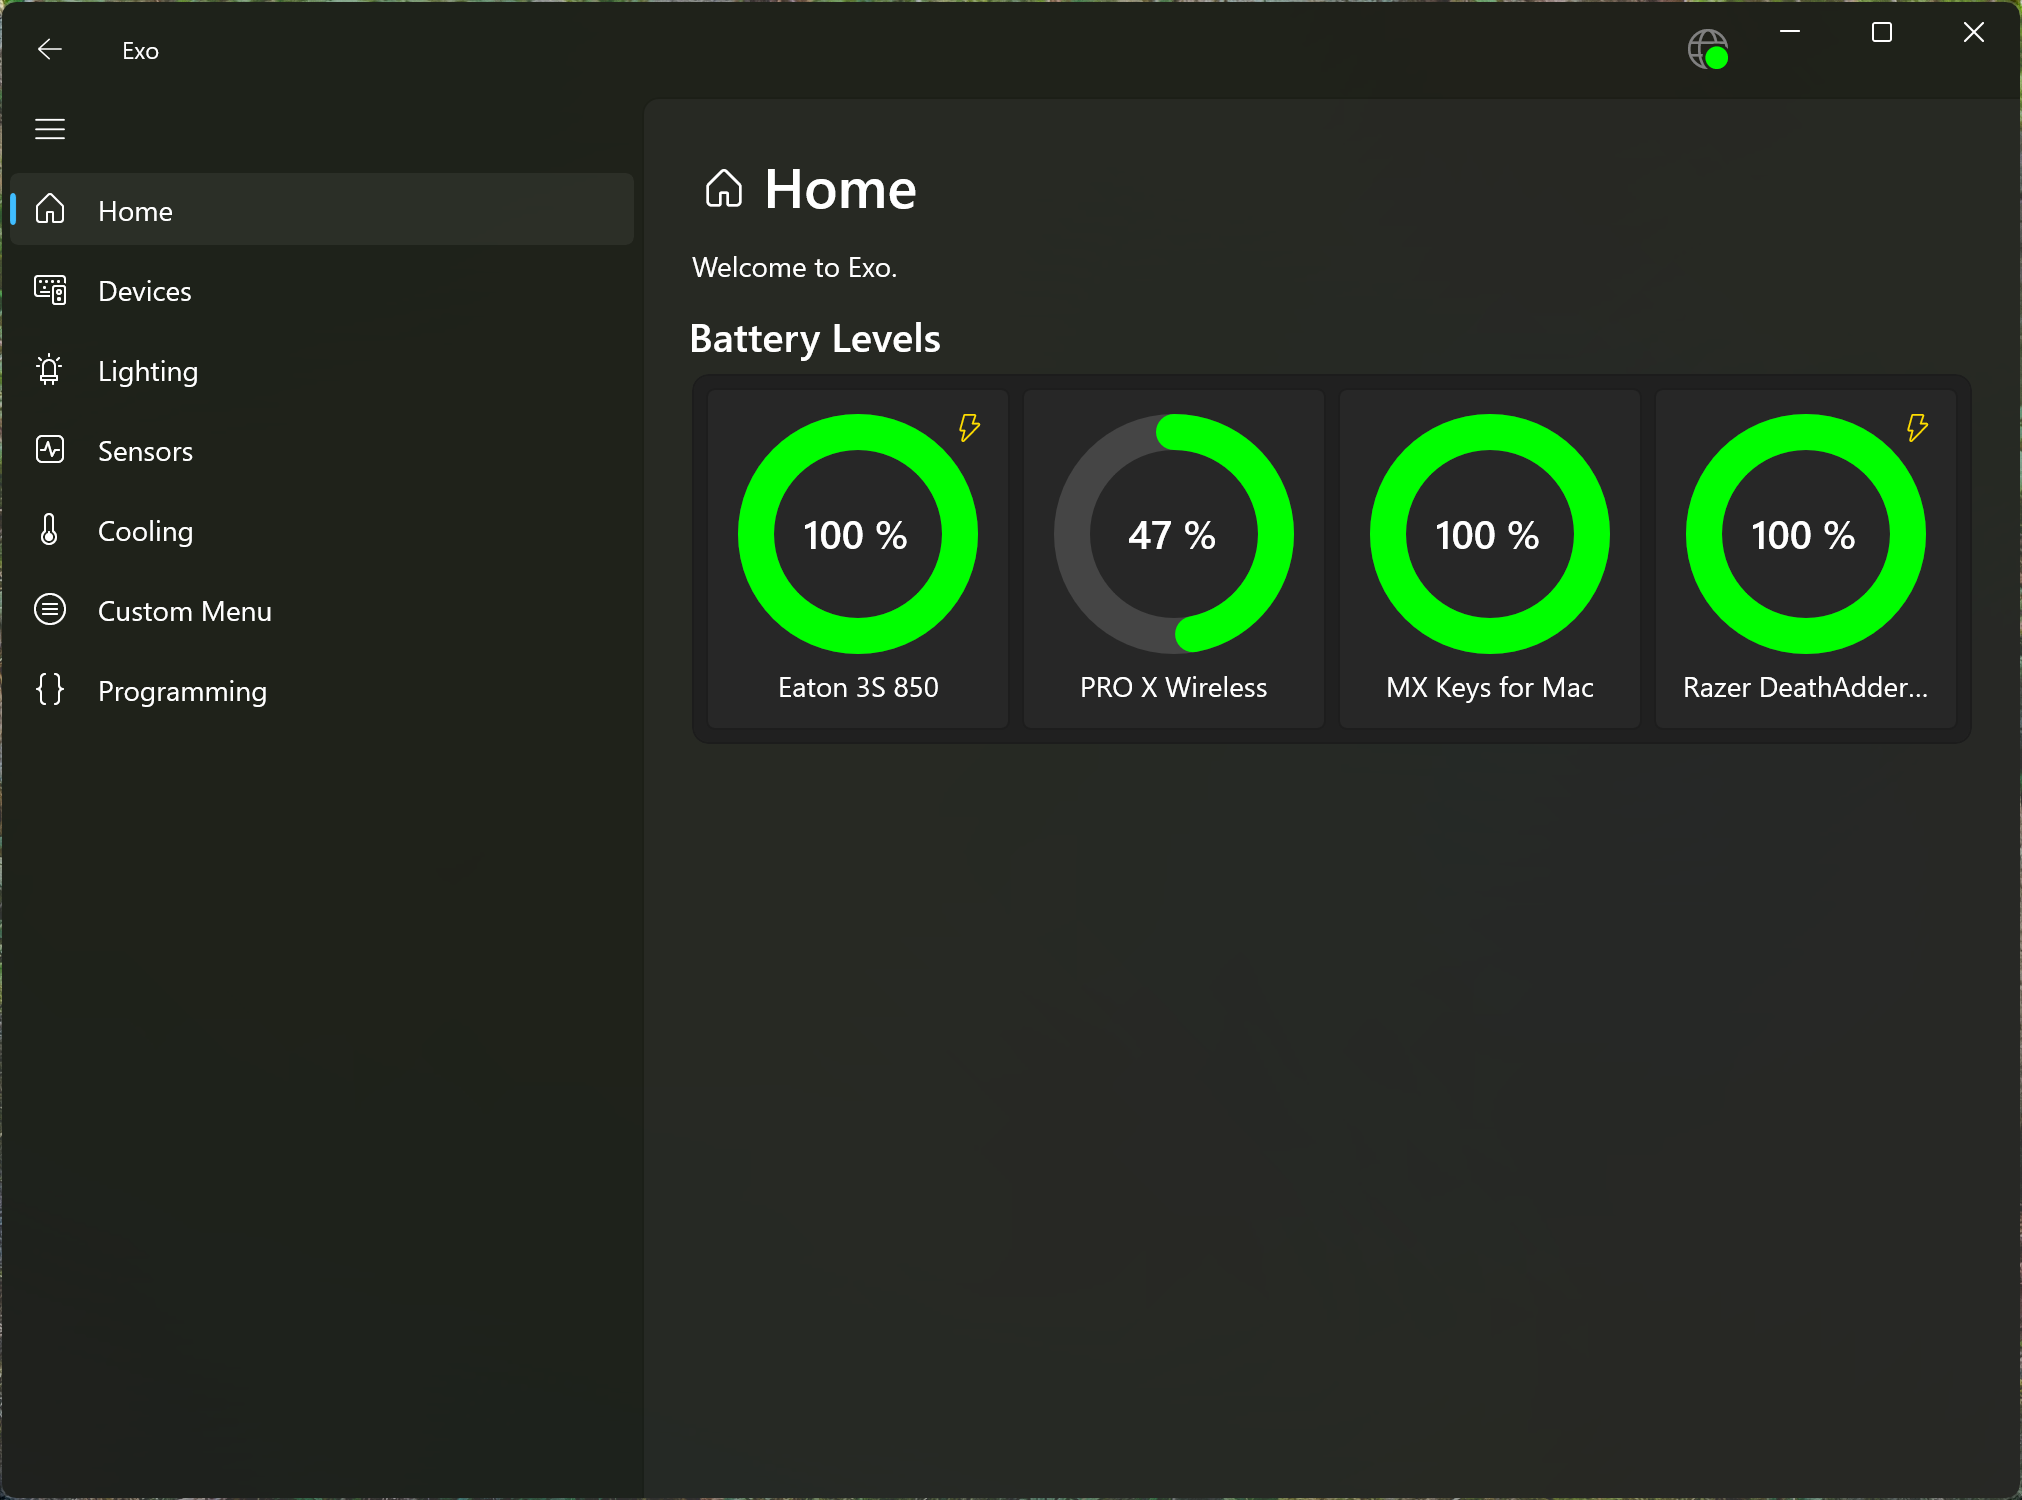
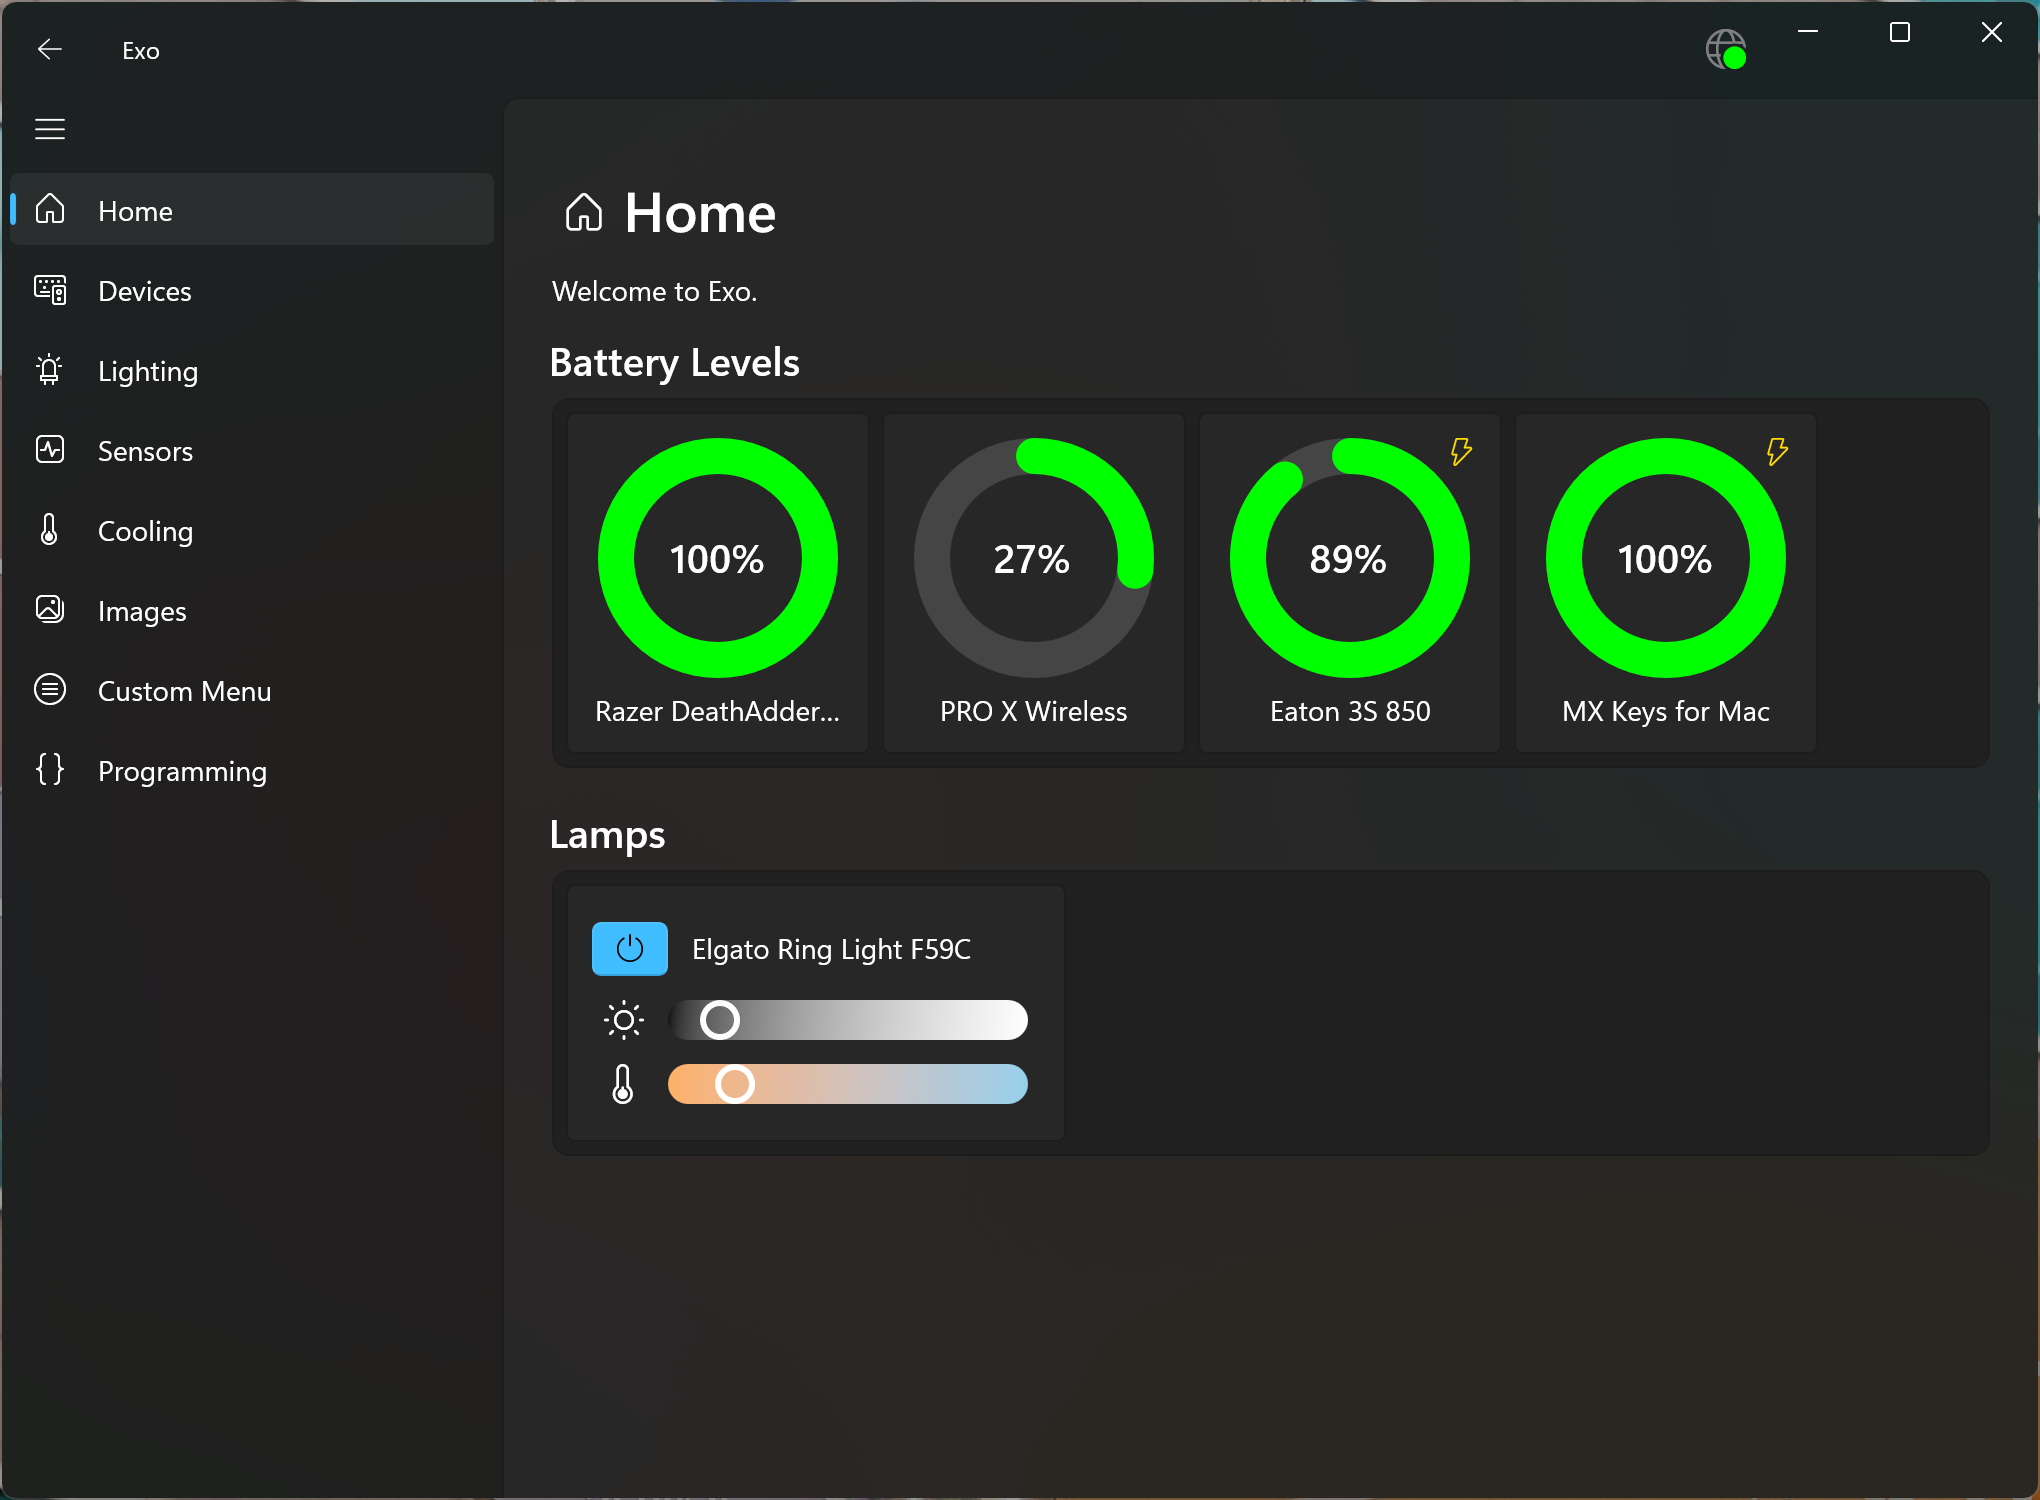
📝 Update documentation.

diff --git a/devices.md b/devices.md
@@ -12,6 +12,7 @@
     <td rowspan="2">Without Vendor Kernel Driver</td>
     <td colspan="3">Power</td>
     <td colspan="3">RGB Lighting</td>
+    <td colspan="3">Lamps</td>
     <td colspan="3">Embedded Display</td>
     <td colspan="3">Mouse</td>
     <td colspan="2">Keyboard</td>
@@ -31,6 +32,10 @@
     <td>Unified</td>
     <td>Zones</td>
     <td>Persistence</td>
+    <!-- RGB Lighting -->
+    <td>On/Off</td>
+    <td>Brightness</td>
+    <td>Color T°</td>
     <!-- Embedded Display -->
     <td>Static images</td>
     <td>Animated images</td>
@@ -73,6 +78,7 @@
     <td>❌</td>
     <td>❌</td>
     <td colspan="3"></td>
+    <td colspan="3"></td>
     <td>✔</td>
     <td>🔍</td>
     <td>🔍</td>
@@ -94,6 +100,7 @@
     <td>✔</td>
     <td>❌</td>
     <td>❌</td>
+    <td colspan="3"></td>
     <td colspan="3"></td>
     <td colspan="3"></td>
     <td>✔</td>
@@ -119,6 +126,7 @@
     <td colspan="3"></td>
     <td colspan="3"></td>
     <td colspan="3"></td>
+    <td colspan="3"></td>
     <td>✔</td>
     <td>✔</td>
     <td colspan="4"></td>
@@ -136,6 +144,7 @@
     <td>✔</td>
     <td>❌</td>
     <td>❌</td>
+    <td colspan="3"></td>
     <td colspan="3"></td>
     <td colspan="3"></td>
     <td colspan="3"></td>
@@ -158,6 +167,7 @@
     <td colspan="3"></td>
     <td colspan="3"></td>
     <td colspan="3"></td>
+    <td colspan="3"></td>
     <td colspan="2"></td>
     <td colspan="4"></td>
     <td></td>
@@ -175,6 +185,7 @@
     <td colspan="3"></td>
     <td colspan="3"></td>
     <td colspan="3"></td>
+    <td colspan="3"></td>
     <td colspan="2"></td>
     <td colspan="4"></td>
     <td></td>
@@ -188,6 +199,7 @@
     <td>USB</td>
     <td>046D:C548</td>
     <td>✔</td>
+    <td colspan="3"></td>
     <td colspan="3"></td>
     <td colspan="3"></td>
     <td colspan="3"></td>
@@ -212,6 +224,7 @@
     <td>✔</td>
     <td>❌</td>
     <td colspan="3"></td>
+    <td colspan="3"></td>
     <td>✔</td>
     <td>🔍</td>
     <td>✔</td>
@@ -235,6 +248,7 @@
     <td>❌</td>
     <td>✔</td>
     <td colspan="3"></td>
+    <td colspan="3"></td>
     <td>✔</td>
     <td>❌</td>
     <td>💾</td>
@@ -257,6 +271,7 @@
     <td>✔</td>
     <td colspan="3"></td>
     <td colspan="3"></td>
+    <td colspan="3"></td>
     <td colspan="2"></td>
     <td colspan="4"></td>
     <td></td>
@@ -276,6 +291,7 @@
     <td rowspan="3">✔</td>
     <td rowspan="3">❌</td>
     <td rowspan="3">✔</td>
+    <td rowspan="3" colspan="3"></td>
     <td rowspan="3" colspan="3"></td>
     <td rowspan="3">✔</td>
     <td rowspan="3">💾</td>
@@ -312,6 +328,7 @@
     <td rowspan="2">✔</td>
     <td rowspan="2" colspan="3"></td>
     <td rowspan="2" colspan="3"></td>
+    <td rowspan="2" colspan="3"></td>
     <td rowspan="2">✔</td>
     <td rowspan="2">💾</td>
     <td rowspan="2">💾</td>
@@ -341,6 +358,7 @@
     <td>✔</td>
     <td colspan="3"></td>
     <td colspan="3"></td>
+    <td colspan="3"></td>
     <td colspan="2"></td>
     <td colspan="4"></td>
     <td></td>
@@ -362,6 +380,7 @@
     <td>✔</td>
     <td colspan="3"></td>
     <td colspan="3"></td>
+    <td colspan="3"></td>
     <td colspan="2"></td>
     <td colspan="4"></td>
     <td>❌</td>
@@ -378,6 +397,7 @@
     <td>USB</td>
     <td>1B1C:1C08</td>
     <td>✔</td>
+    <td colspan="3"></td>
     <td colspan="3"></td>
     <td colspan="3"></td>
     <td colspan="3"></td>
@@ -402,6 +422,7 @@
     <td rowspan="3">❌</td>
     <td rowspan="3">❌</td>
     <td rowspan="3">❌</td>
+    <td rowspan="3" colspan="3"></td>
     <td rowspan="3">✔</td>
     <td rowspan="3">✔</td>
     <td rowspan="3">✔</td>
@@ -431,6 +452,7 @@
     <td rowspan="3">❌</td>
     <td rowspan="3">❌</td>
     <td rowspan="3">❌</td>
+    <td rowspan="3" colspan="3"></td>
     <td rowspan="3">❓</td>
     <td rowspan="3">✔</td>
     <td rowspan="3">✔</td>
@@ -460,6 +482,7 @@
     <td rowspan="3">❌</td>
     <td rowspan="3">❌</td>
     <td rowspan="3">❌</td>
+    <td rowspan="3" colspan="3"></td>
     <td rowspan="3">❓</td>
     <td rowspan="3">✔</td>
     <td rowspan="3">✔</td>
@@ -493,6 +516,7 @@
     <td>✔</td>
     <td colspan="3"></td>
     <td colspan="3"></td>
+    <td colspan="3"></td>
     <td colspan="2"></td>
     <td colspan="4"></td>
     <td></td>
@@ -502,12 +526,13 @@
     <td></td>
   </tr>
   <tr>
-    <td>Elgato</td>
+    <td rowspan="3">Elgato</td>
     <td>Other</td>
     <td>StreamDeck XL</td>
     <td>USB</td>
     <td>0FD9:006C</td>
     <td>✔</td>
+    <td colspan="3"></td>
     <td colspan="3"></td>
     <td colspan="3"></td>
     <td>✔</td>
@@ -521,6 +546,30 @@
     <td></td>
     <td></td>
     <td></td>
+  </tr>
+  <tr>
+    <td rowspan="2">Lamp</td>
+    <td>Ring Light</td>
+    <td rowspan="2">Wifi</td>
+    <td rowspan="2"></td>
+    <td rowspan="2">✔</td>
+    <td rowspan="2" colspan="3"></td>
+    <td rowspan="2" colspan="3"></td>
+    <td rowspan="2">✔</td>
+    <td rowspan="2">✔</td>
+    <td rowspan="2">✔</td>
+    <td rowspan="2" colspan="3"></td>
+    <td rowspan="2" colspan="3"></td>
+    <td rowspan="2" colspan="2"></td>
+    <td rowspan="2" colspan="4"></td>
+    <td rowspan="2"></td>
+    <td rowspan="2" colspan="2"></td>
+    <td rowspan="2"></td>
+    <td rowspan="2"></td>
+    <td rowspan="2"></td>
+  </tr>
+  <tr>
+    <td>Key Light</td>
   </tr>
   <tr>
     <td>Eaton</td>
@@ -531,6 +580,7 @@
     <td>✔</td>
     <td>✔</td>
     <td colspan="2"></td>
+    <td colspan="3"></td>
     <td colspan="3"></td>
     <td colspan="3"></td>
     <td colspan="3"></td>
@@ -549,6 +599,7 @@
     <td>PCI</td>
     <td>8086:*</td>
     <td>❌</td>
+    <td colspan="3"></td>
     <td colspan="3"></td>
     <td colspan="3"></td>
     <td colspan="3"></td>
@@ -572,10 +623,11 @@
     <td colspan="3"></td>
     <td colspan="3"></td>
     <td colspan="3"></td>
+    <td colspan="3"></td>
     <td colspan="2"></td>
     <td colspan="4"></td>
     <td>✔</td>
-    <td>❌</td>
+    <td>❓</td>
     <td></td>
     <td></td>
     <td>✔</td>
@@ -592,10 +644,11 @@
     <td>❌</td>
     <td colspan="3"></td>
     <td colspan="3"></td>
+    <td colspan="3"></td>
     <td colspan="2"></td>
     <td colspan="4"></td>
     <td>✔</td>
-    <td>❌</td>
+    <td>✔</td>
     <td></td>
     <td></td>
     <td>✔</td>
@@ -608,6 +661,7 @@
     <td>GPU</td>
     <td></td>
     <td>✔</td>
+    <td colspan="3"></td>
     <td colspan="3"></td>
     <td colspan="3"></td>
     <td colspan="3"></td>
@@ -633,6 +687,7 @@
     <td colspan="3"></td>
     <td colspan="3"></td>
     <td colspan="3"></td>
+    <td colspan="3"></td>
     <td colspan="2"></td>
     <td>✔</td>
     <td>✔</td>
@@ -652,6 +707,7 @@
     <td>✔</td>
     <td rowspan="2" colspan="3"></td>
     <td colspan="3"></td>
+    <td rowspan="2" colspan="3"></td>
     <td rowspan="2" colspan="3"></td>
     <td rowspan="2" colspan="3"></td>
     <td rowspan="2" colspan="2"></td>

diff --git a/index.md b/index.md
@@ -1,24 +1,33 @@
-Exo is a lightweight background service bundled with a nice modern Windows UI, that will manage the features of your devices without sacrificing your memory or CPU.
+Have you ever gasped at all those apps running in the background eating your CPU and Memory just so that you can tweak a small thing on one of your devices?
 
-With Exo, you can get rid of many inefficient apps on your computer, and reduce the RAM and CPU consumption.
+Exo may be your solution!
+
+Exo is a lightweight background service provided with a nice modern Windows UI, that will manage the features of your devices without sacrificing excessive amounts of memory and CPU.
+
+With Exo, you will be able get rid of many apps on your computer and save up your precious RAM and CPU power.
 
 You can check the [Supported Devices](devices.md) page to see if your device(s) are supported.
 
-Download a [recent build](https://github.com/hexawyz/Exo/actions), or [a release](https://github.com/hexawyz/Exo/releases) on GitHub.
+# Download
+
+Download [a release](https://github.com/hexawyz/Exo/releases) on GitHub. ([Automatic builds](https://github.com/hexawyz/Exo/actions) are available)
 
 # Prerequisites
 
-* [.NET 8.0.8 runtime](https://dotnet.microsoft.com/en-us/download/dotnet/8.0)
-* [Windows App SDK 1.6 Runtime](https://aka.ms/windowsappsdk/1.6/1.6.240829007/windowsappruntimeinstall-x64.exe)
+* [.NET 9.0.200 runtime](https://dotnet.microsoft.com/en-us/download/dotnet/9.0)
+* [Windows App SDK 1.6.5 Runtime](https://aka.ms/windowsappsdk/1.6/1.6.250205002/windowsappruntimeinstall-x64.exe)
 
 # Features
 
-## Quick Battery Summary on the Home Page
+## Quick Battery Summary and Lamp controls on the Home Page
 
 ![Screenshot of the Home Page](images/Screenshot-Exo-Home.png)
 
 Something that you may miss is the ability to quickly check the battery state of your devices.
 Exo provides that on its home page, so that this is the first thing you see when opening the app.
+
+Exo also allows quick access to your lamp devices from the Home Page.
+These settings can also be accessed from the specific device page.
 
 ## Notifications
 
@@ -96,6 +105,17 @@ The option to persist lighting settings to non-volatile memory of the device is 
 ![Screenshot of the Lighting page, showing a motherboard with unified lighting](images/Screenshot-Exo-Lighting-3.png)
 
 Support for unified lighting effects can also be toggled for mlti-zone devices that support it.
+
+## Lamps
+
+![Screenshot of a Device page, showing Lamp settings](images/Screenshot-Exo-Lamps.png)
+
+Exo will allow to control lamp devices.
+
+These are currently handled as a separate category than RGB lighting.
+Lamps are usually wholly external to the device and can often be controlled externally.
+
+Changes will be sent to lamps immediately, and the UI will try its best to reflect changes done externally in a timely manner.
 
 ## Embedded Monitors
 
